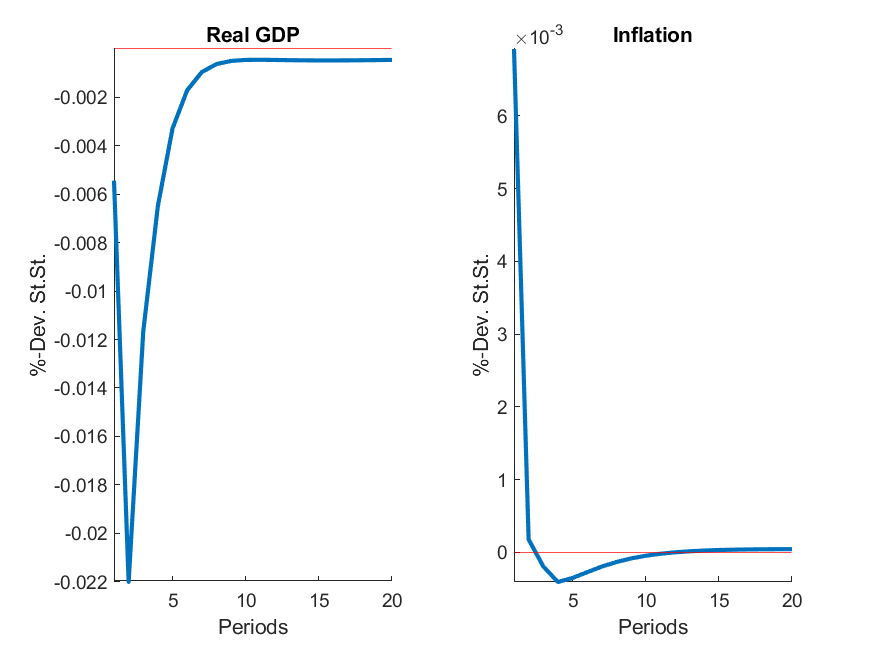
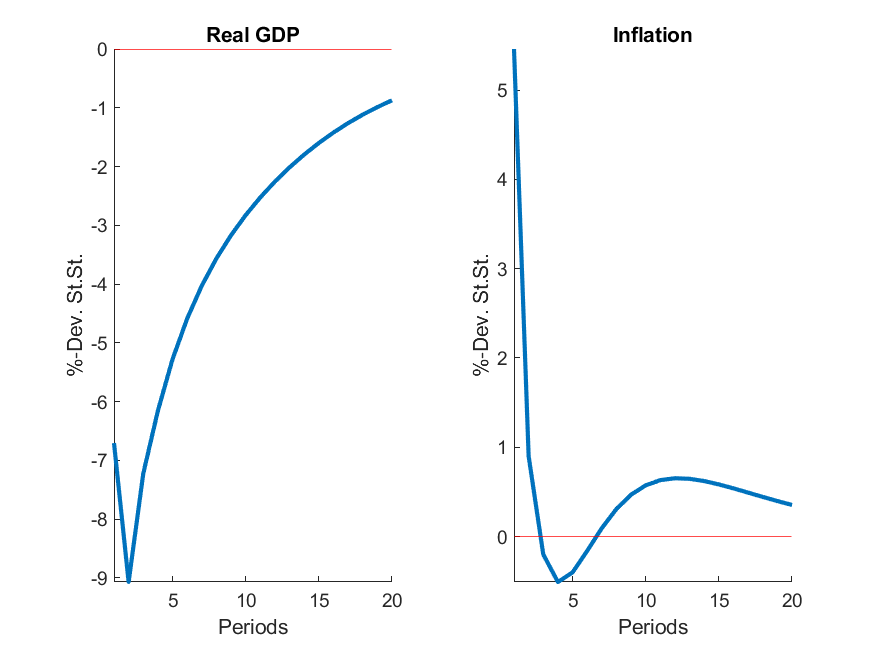
some changes

diff --git a/writing/QDM_paper.tex b/writing/QDM_paper.tex
@@ -113,12 +113,13 @@ The three tax-rates are set in accordance with the average effective tax rates i
 % ------------------------------------------------------------------------
 
 % 4. Benchmark Model Analysis
+\newpage
 \section*{4. Benchmark Model Analysis (about two pages)}
 
-As our scenario requires that the Central Bank adopts a money supply target, we adjust the benchmark model to a monetary policy rule with the following specification: 
+As our scenario requires that the Central Bank adopts a money supply target aiming to achieve price stability, we adjust the benchmark model to a monetary policy rule with the following specification: 
 
 \begin{equation}
-    \frac{M_t}{M_{t-1}} = \Big(\frac{MC_{t}}{\bar{MC}}\Big)^{\theta_{MC}} \Big(\frac{1+\pi_{t}}{1+ \bar \pi}\Big)^{\theta_{\pi}}
+    \frac{M_t}{M_{t-1}} = \Big(\frac{1+\pi_{t}}{1+ \bar \pi}\Big)^{\theta_{\pi}}
 \end{equation}
 
 Moreover, it seems natural, that the $MC$ shock should enter the model through the Phillips curve. That is because the curve represents the pricing decision rule of the intermediate companies, and so it will most accurately represent their reaction to an increase in marginal costs.
@@ -145,6 +146,7 @@ Over time, as no more shocks happen, firms are able to arrive back at their targ
 \subsection*{(b) What is the idea behind the implemented policy (current policy scenario)?}
 
 At the same time, in an effort to smooth out the path of the economy, the central bank will adjust the money supply to increase the purchasing power of the households and counter the shocks. By following the Taylor-like monetary policy rule, it will increase the money supply in order to match the inflation and marginal cost gaps of the economy in an effort to achieve price stability. As the bank intervention will increase the money stock of the households, it will allow it to consume more goods and therefore counter the drop in output that the economy experiences.\ \textbf{Think carefully about this, what is the ideal policy rule and how to actually best achieve price stability, what should the central bank target?}
+
 
 \newpage
 % 5. Counterfactual Policies
